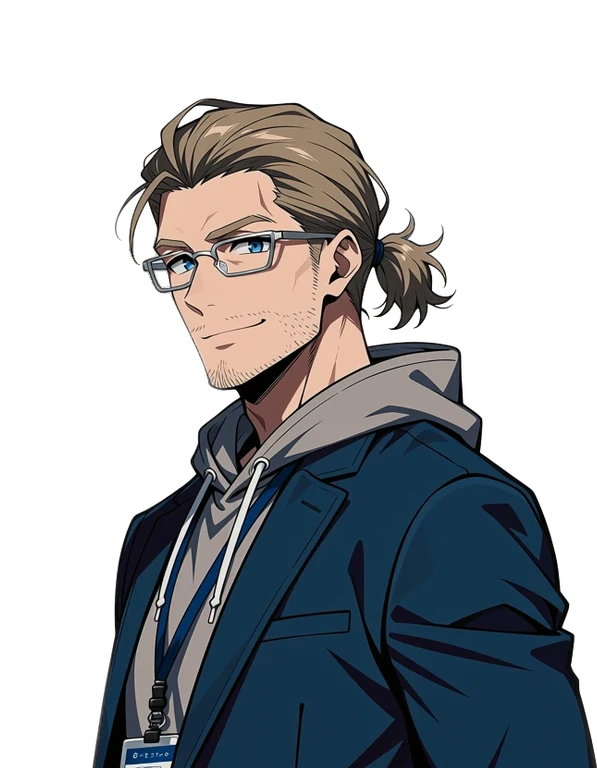
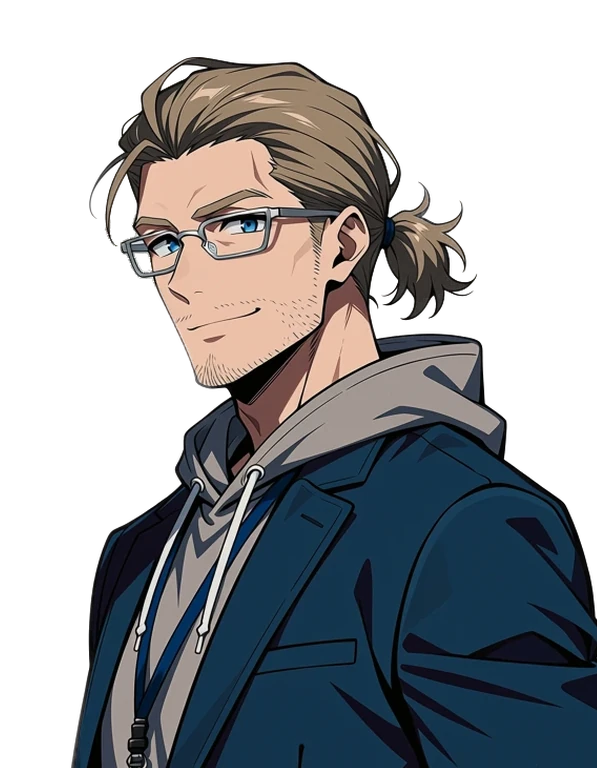
portraits: Eric 25% closer, same chin height (review eric-portrait-final-2, decided)
Jørgen on the 10% version: "yeah say 25% bigger".
Re-cut from the full-size r4-909 cut-out at scale 1.051125 (the original 0.84090 x 1.25), anchored
at his face centre x 304 and chin y 402 on the 597x768 canvas; FACE.eric unchanged, so his face
shows 25% bigger on screen with the chin where it was. Glasses frame kept solid with the same
opaque mask. The 10% version is kept in art/production/eric-portrait-final/ (git-ignored).
Lineup (original / 25%) posted as reviews/eric-portrait-final-3.

Facts: none

diff --git a/art/PROMPTS.md b/art/PROMPTS.md
@@ -147,4 +147,4 @@ Jørgen: "glasses are the main issue with Mio, they keep changing to different s
 - Repainting only the side hair of a finished render doesn't fix it: masked img2img at denoise 0.45 to 0.75, with or without the LLLite inpainting patch, redraws the same dark side. Change the words and re-render.
 - Keep the weighted red-rim negative `(rim light, red rim light, red outline, backlighting:1.4)` and measure with tools/redrim.py.
 - Pose (Jørgen, 2026-09-29: "no awkward pose, no holding props"): `arms relaxed at his sides, slight three-quarter turn, looking at the viewer` or `one hand in his pocket, slight three-quarter turn, looking at the viewer`, in place of the old coffee-cup and neck-rub words. None of 24 renders in round eric-portrait-anime-5 held anything, and the hands mostly end up in pockets or out of frame. Leave out "standing" and "trouser pocket": they pull the camera back to thigh-up and shrink the head.
-- Game crop (2026-09-29, Jørgen: "like 10% bigger zoomed in"): eric-neutral.webp is r4-909's cut-out scaled 0.92499 (0.84090 x 1.1) about his face centre x 304 and chin y 402 of the 597x768 canvas, source box x 127.87 to 773.28, y -99.50 to 730.78 on the 896x1152 render; FACE.eric unchanged, so his face shows 10% bigger at the same chin height.
+- Game crop (2026-09-29, Jørgen: "like 10% bigger zoomed in", then "yeah say 25% bigger"): eric-neutral.webp is r4-909's cut-out scaled 1.051125 (0.84090 x 1.25) about his face centre x 304 and chin y 402 of the 597x768 canvas, source box x 167.30 to 735.27, y -47.35 to 683.30 on the 896x1152 render; FACE.eric unchanged, so his face shows 25% bigger at the same chin height.
